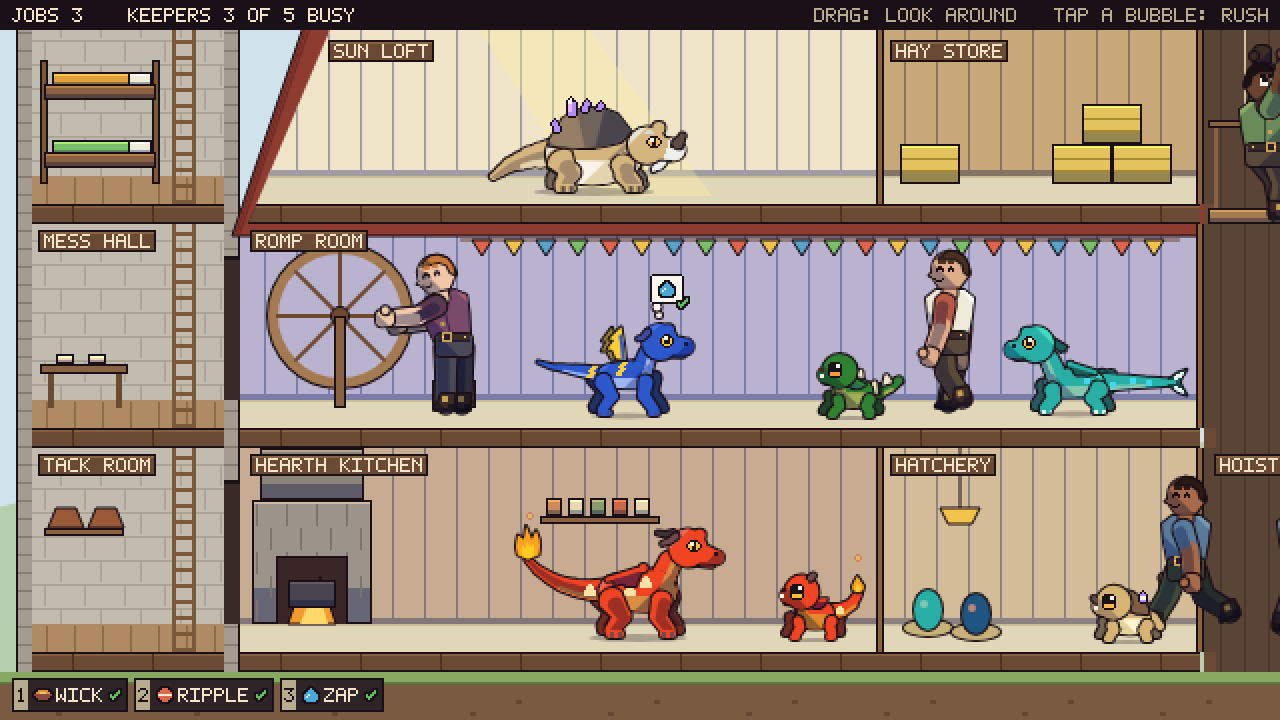
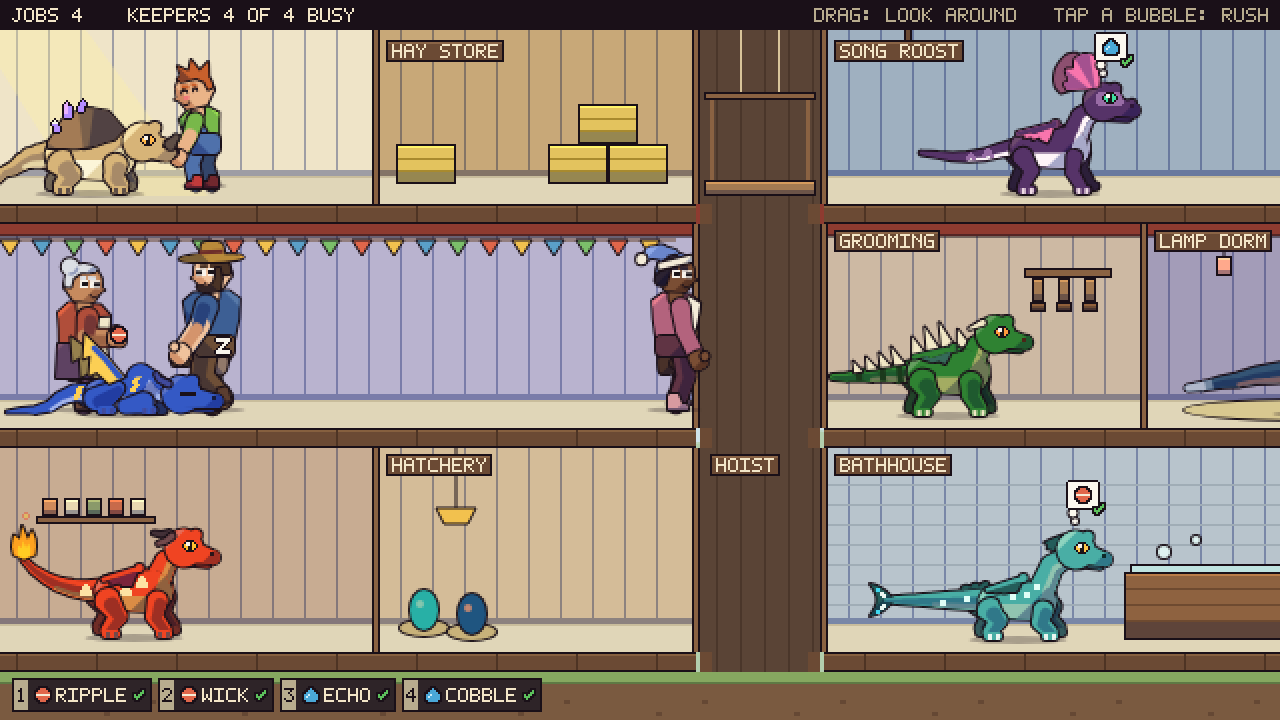
S1: review fixes
- sim-check 6 fails any CareSim field that is neither in the save nor on
  a short list of unsaved fields (rooms, roomPlaces, events). The digest
  is the save, so it could not see a missing field.
- smoke baseKeys reads the hook after every key and fails on a falling
  tick or a missing hook, so it no longer depends on timing.
  BaseView.detach() now removes the hook.
- A preset page never persists (persist also needs !preset), so S4
  cannot load a barn over a preset or autosave a debug cast.
- The gallery's arrow/Space cycle skips view=base, so a debug view
  reached with the arrows can still be left.
- START_CAM moves to (300, 376): the opening frame shows six of the seven
  young adults whole, up from three. BASE_DESIGN 8.1's picture is
  re-rendered from the current build and its text is updated.

Refs #9, Refs #8, Refs #6

Claude-Session: https://claude.ai/code/session_018T6fFejCfcDDpD7r1vAXDn

diff --git a/src/gallery.ts b/src/gallery.ts
@@ -3,7 +3,7 @@
 // THE CONTRACT with tools/shot.ts: the query string picks the view, the anim and a frozen time `t` (60 Hz steps from
 // the anim's start); with `t` the page draws exactly that frame and then sets window.__dragonCare.ready. Without `t`
 // it runs live (keyboard: arrows / space cycle views, number keys pick anims; not on view=base, the game, whose keys
-// are its own) and sets ready after the first frame.
+// are its own -- the cycle steps over it, so every view it reaches keeps them) and sets ready after the first frame.
 //
 //   (no view=, or an unknown one)   the game: view=base, below -- this is the page a plain index.html load runs
 //   view=lineup                28 dragons: seven element columns (bible order) x baby / young / adult / elder rows
@@ -32,6 +32,7 @@
 //                              and tap a bubble, a job or a dragon to Rush it; seed= seeds the world, cam=x,y starts the
 //                              camera there (world px), preset=<name> starts from a code-built world instead of the new
 //                              game (src/game/presets.ts: ages = every stage), save=0 keeps a live page from saving
+//                              (a preset page, like a frozen one, never loads or saves: it isn't the player's barn)
 //   anim: idle walk happy eat sleep wake breath pet beg rest (anims.ts ANIM_NAMES), and by name any variant or an
 //   element anim (bath, upset, call); one-shots replay after a pause, an eating pet gets a bowl drawn after it
 //   params: anim, mood (-1..1), t, scale, bg, seed, facing (-1: zoom and strip mirrored), bond (0..1, default 1),
@@ -73,6 +74,8 @@ const LABEL = '#3a2a30';
 
 export const VIEWS = ['lineup', 'silhouette', 'stages', 'grey', 'cvd', 'strip', 'habitat', 'zoom', 'cast', 'mood', 'faces', 'floor', 'roots', 'tails', 'pour', 'neutral', 'wings', 'keepers', 'care', 'careaudit', 'yard', 'yardaudit', 'base'] as const;
 export type View = typeof VIEWS[number];
+/** The views the arrows and Space cycle through: every one but the game's (view=base keeps its keys, so it could never be left). */
+const RING: readonly View[] = VIEWS.filter((v) => v !== 'base');
 
 export interface GalleryParams {
   view: View;
@@ -1326,8 +1329,9 @@ function makeScene(P: GalleryParams): Scene {
     case 'careaudit': return careAuditScene(P);
     case 'yard': return yardScene(P);
     case 'yardaudit': return yardAuditScene(P);
-    // (a frozen view never loads or saves: G4)
-    case 'base': return new BaseView({ seed: P.seed, cam: P.cam, preset: P.preset, persist: P.t == null && P.save });
+    // (a frozen view never loads or saves (G4), and nor does a preset: loading would hide it, autosaving would put it
+    // in place of the player's barn)
+    case 'base': return new BaseView({ seed: P.seed, cam: P.cam, preset: P.preset, persist: P.t == null && P.save && !P.preset });
     default: return lineupScene(P);
   }
 }
@@ -1367,9 +1371,9 @@ export function startGallery(canvas: HTMLCanvasElement, search: string, onReady:
   window.addEventListener('keydown', (e) => {
     // (the base is the game: its keys are its own, and E or an arrow must never rebuild or leave it)
     if (P.view === 'base') return;
-    const vi = VIEWS.indexOf(P.view);
-    if (e.key === 'ArrowRight' || e.key === ' ') { P = { ...P, view: VIEWS[(vi + 1) % VIEWS.length] }; rebuild(); }
-    else if (e.key === 'ArrowLeft') { P = { ...P, view: VIEWS[(vi + VIEWS.length - 1) % VIEWS.length] }; rebuild(); }
+    const vi = RING.indexOf(P.view);
+    if (e.key === 'ArrowRight' || e.key === ' ') { P = { ...P, view: RING[(vi + 1) % RING.length] }; rebuild(); }
+    else if (e.key === 'ArrowLeft') { P = { ...P, view: RING[(vi + RING.length - 1) % RING.length] }; rebuild(); }
     else if (e.key === 'e' || e.key === 'E') { P = { ...P, el: ELEMENT_IDS[(ELEMENT_IDS.indexOf(P.el) + 1) % ELEMENT_IDS.length] }; rebuild(); }
     else if (/^[0-9]$/.test(e.key) && ANIM_NAMES[(Number(e.key) + 9) % 10]) { P = { ...P, anim: ANIM_NAMES[(Number(e.key) + 9) % 10] }; rebuild(); }
     else return;

diff --git a/tools/smoke.ts b/tools/smoke.ts
@@ -93,20 +93,31 @@ function everyStage(b: BaseHook): string[] {
 
 /**
  * view=base, live: the gallery's keys are not the game's. Every one that once rebuilt the world (E, the digits) or
- * left it (the arrows, Space) is pressed; the base must still be there, the same world, still running.
+ * left it (the arrows, Space) is pressed; the base must still be there, the same world, still running. Each key is
+ * judged on its own, by the clock and not by how long it took: a rebuilt world's tick starts again from 0 (any fall
+ * fails), and leaving the base detaches it, which takes its hook away.
  */
 async function baseKeys(page: any): Promise<string[]> {
   const out: string[] = [];
-  const st = () => page.evaluate(() => (window as any).__dragonCare?.base);
+  const st = (): Promise<BaseHook | undefined> => page.evaluate(() => (window as any).__dragonCare?.base);
   await page.waitForFunction(() => ((window as any).__dragonCare?.base?.tick ?? 0) > 30, null, { timeout: 15000 });
-  const a = (await st()).tick;
-  for (const key of ['e', 'E', 'ArrowRight', 'ArrowLeft', 'Space', '5']) { await page.keyboard.press(key); await page.waitForTimeout(50); }
+  const a = (await st())!, ids = a.dragons.map((d) => d.id).join(',');
+  let last = a.tick;
+  for (const key of ['e', 'E', 'ArrowRight', 'ArrowLeft', 'Space', '5']) {
+    await page.keyboard.press(key);
+    await page.waitForTimeout(50);
+    const b = await st();
+    if (!b) { out.push(`the base hook is gone after ${key}: the page left the base`); break; }
+    if (b.tick < last) out.push(`${key} restarted the world (tick ${last} -> ${b.tick})`);
+    last = b.tick;
+  }
   await page.waitForTimeout(300);
   const size = await page.evaluate(() => { const c = document.getElementById('stage') as HTMLCanvasElement; return [c.width, c.height]; });
   if (size[0] !== 640 || size[1] !== 360) out.push(`the canvas is ${size[0]} x ${size[1]} after the keys, not the base's 640 x 360`);
   const b = await st();
-  if (!b) return [...out, 'the base hook is gone after the keys'];
-  if (!(b.tick >= a + 10)) out.push(`the world restarted or stopped under the keys (tick ${a} -> ${b.tick})`);
+  if (!b) return out.length ? out : ['the base hook is gone after the keys'];
+  if (!(b.tick >= a.tick + 10)) out.push(`the world restarted or stopped under the keys (tick ${a.tick} -> ${b.tick})`);
+  if (b.dragons.map((d) => d.id).join(',') !== ids) out.push(`the dragons changed under the keys (${ids} -> ${b.dragons.map((d) => d.id).join(',')})`);
   return out;
 }
 

diff --git a/src/game/base.ts b/src/game/base.ts
@@ -27,8 +27,11 @@ import type { Rect } from './icons.ts';
 
 const INK = '#1a1018';
 export const VIEW_W = 640, VIEW_H = 360;
-/** Where the camera starts: the left tower, the kitchen, the hatchery, the romp room and the sun loft. */
-const START_CAM = { x: 48, y: 376 };
+/**
+ * Where the camera starts: the barn's middle, where the new game's seven young adults stand in the mockups' rooms
+ * (world x 344-962, wider than one screen): six of them whole, and WICK's tail in the Lamp Dorm at the right edge.
+ */
+const START_CAM = { x: 300, y: 376 };
 /** Chips in the job strip (4.8). */
 const STRIP = 5;
 /** What a job has the dragon do (4.4, the rig's anims: ART_BIBLE 4.2); dusk's bedtime is its own tuck-in (3.8). */
@@ -44,7 +47,7 @@ export interface BaseViewOpts {
   cam?: { x: number; y: number } | null;
   /** A start from presets.ts by name (null, or a name no preset has: the new game). */
   preset?: string | null;
-  /** A live page that loads and autosaves (the gallery sets it only without t= and without save=0). Unused until S4. */
+  /** A live page that loads and autosaves (the gallery sets it only without t=, save=0 or preset=). Unused until S4. */
   persist?: boolean;
 }
 
@@ -304,5 +307,10 @@ export class BaseView {
     });
   }
 
-  detach(): void { for (const f of this.detachers) f(); this.detachers = []; }
+  /** Give the page back: the pointer and the resize, and the hook (it describes a base that is running). */
+  detach(): void {
+    for (const f of this.detachers) f();
+    this.detachers = [];
+    if (typeof window !== 'undefined' && window.__dragonCare) delete window.__dragonCare.base;
+  }
 }

diff --git a/tools/sim-check.ts b/tools/sim-check.ts
@@ -160,6 +160,10 @@ const newSim = (seed = 1) => new CareSim(START_ROOMS, START_DRAGONS, START_KEEPE
   a.keepers.forEach((k, i) => missing(k, blob.keepers[i], `keeper ${k.name}`));
   a.jobs.forEach((j, i) => missing(j, blob.jobs[i], `job ${j.id}`));
   missing(a.stats, blob.stats, 'stats');
+  // and every field of the world itself: a field a later slice adds to CareSim (a lift, a garden, a board) fails here
+  // until it is saved, or listed below with the reason it needn't be (the digest is the save, so it can't see one left out)
+  const UNSAVED: Readonly<Record<string, string>> = { rooms: 'placed again from roomPlaces', roomPlaces: 'saved as rooms', events: 'one step\'s output, cleared by the next' };
+  for (const k of Object.keys(a)) if (!(k in blob) && !(k in UNSAVED)) fail(`save: the world's ${k} is not in its save (save it, or say in sim-check why not)`);
   const b = CareSim.fromSave(through(serialize(a)));
   if (b.digest() !== a.digest()) fail('save: a loaded world differs from its save at once');
   if (b.seed !== a.seed || b.clock !== a.clock) fail('save: the seed or the clock was not kept');

diff --git a/tools/shots.ts b/tools/shots.ts
@@ -46,8 +46,8 @@ const pairs: string[] = [
   ...STAGES.map((st) => `shots/cast_${st}.png=view=cast&stage=${st}&t=0&scale=1`),
   // the elders' wing wear (2.9): the hole at full spread and at home (the airing), the tears in the preen
   'shots/wings_elder.png=view=wings&t=0',
-  // the base (docs/BASE_DESIGN.md): its first seconds (the start camera, and the barn's east half: the seven young
-  // adults between them), a minute of care, and every stage at once (the ages preset)
+  // the base (docs/BASE_DESIGN.md): its first seconds (the start camera: six of the seven young adults whole; and the
+  // barn's east half, WICK whole), a minute of care, and every stage at once (the ages preset)
   'shots/base_t600.png=view=base&t=600',
   'shots/base_t600_east.png=view=base&t=600&cam=560,376',
   'shots/base_t3600.png=view=base&t=3600',

diff --git a/types/globals.d.ts b/types/globals.d.ts
@@ -41,7 +41,7 @@ interface Window {
      * view=base (src/game/base.ts), as of the last frame drawn: the care simulation's step, the camera, the open jobs,
      * the jobs done and the Rushes so far, and the job strip's chips (canvas px) for tapping; the world's digest (the
      * 8-hex FNV-1a hash of src/game/save.ts worldKey: the save's JSON less the seed) and every dragon (its stable id,
-     * element, stage, floor and x).
+     * element, stage, floor and x). Gone once the base is detached (the page left it).
      */
     base?: { tick: number; camX: number; camY: number; jobs: number; done: number; rushes: number; preempted: number;
       chips: { x: number; y: number; w: number; h: number; dragon: string; need: string; rushed: boolean }[];

diff --git a/docs/BASE_DESIGN.md b/docs/BASE_DESIGN.md
@@ -256,10 +256,11 @@ a mission are not keeping, which is the price of sending a team (5.6).
    dragon to Rush it. The four keepers are the named cast of `docs/KEEPERS.md`, each in the anim closest to its job
    while this slice's own simulation walks it and picks what it's doing (KEEPERS.md's status has the join). The page
    takes `seed=`, `cam=x,y` (where the camera starts, world px), `preset=ages` (a code-built start with every stage:
-   the base's first twelve-dragon cast) and `save=0` (a live page that never loads or saves); `t=` freezes it as in
-   every gallery view. The gallery's own keys (the arrows, Space, E, the digits) do nothing here.
+   the base's first twelve-dragon cast) and `save=0` (a live page that never loads or saves; a preset page never
+   does either); `t=` freezes it as in every gallery view. The gallery's own keys (the arrows, Space, E, the digits)
+   do nothing here, and its arrows step over the base, so a debug view reached with them can still be left.
 
-   ![The built slice, 30 s in: keepers on their way, the handler fetching a ball, the job strip](base/base_live.png)
+   ![The built slice, 30 s in: six of the seven young adults in the start frame (WICK's tail at the right edge), all four keepers at work, the job strip](base/base_live.png)
 
    | File | What it is |
    |---|---|
@@ -279,7 +280,9 @@ a mission are not keeping, which is the price of sending a team (5.6).
    jobs opened and 148 were done. A keeper started on a job 14.2 s after it opened on average (40.5 s at most), and
    no need ever emptied. (The first cast, twelve dragons, gave 274 opened, 271 done, 15.9 s and 53.4 s.) Not in this
    slice:
-   - dragons stay where they stand (the idle and its variants keep them lively);
+   - dragons stay where they stand (the idle and its variants keep them lively), in the mockups' rooms: the seven
+     span more than one screen, so the start camera frames six of them and the tail of the seventh (WICK, in the
+     Lamp Dorm), and a drag shows the rest;
    - the base is the fixed starting one (or a preset), and nothing is stored yet: the save format exists and is
      checked, but nothing writes it to the browser;
    - there is no building yet, and no missions.
